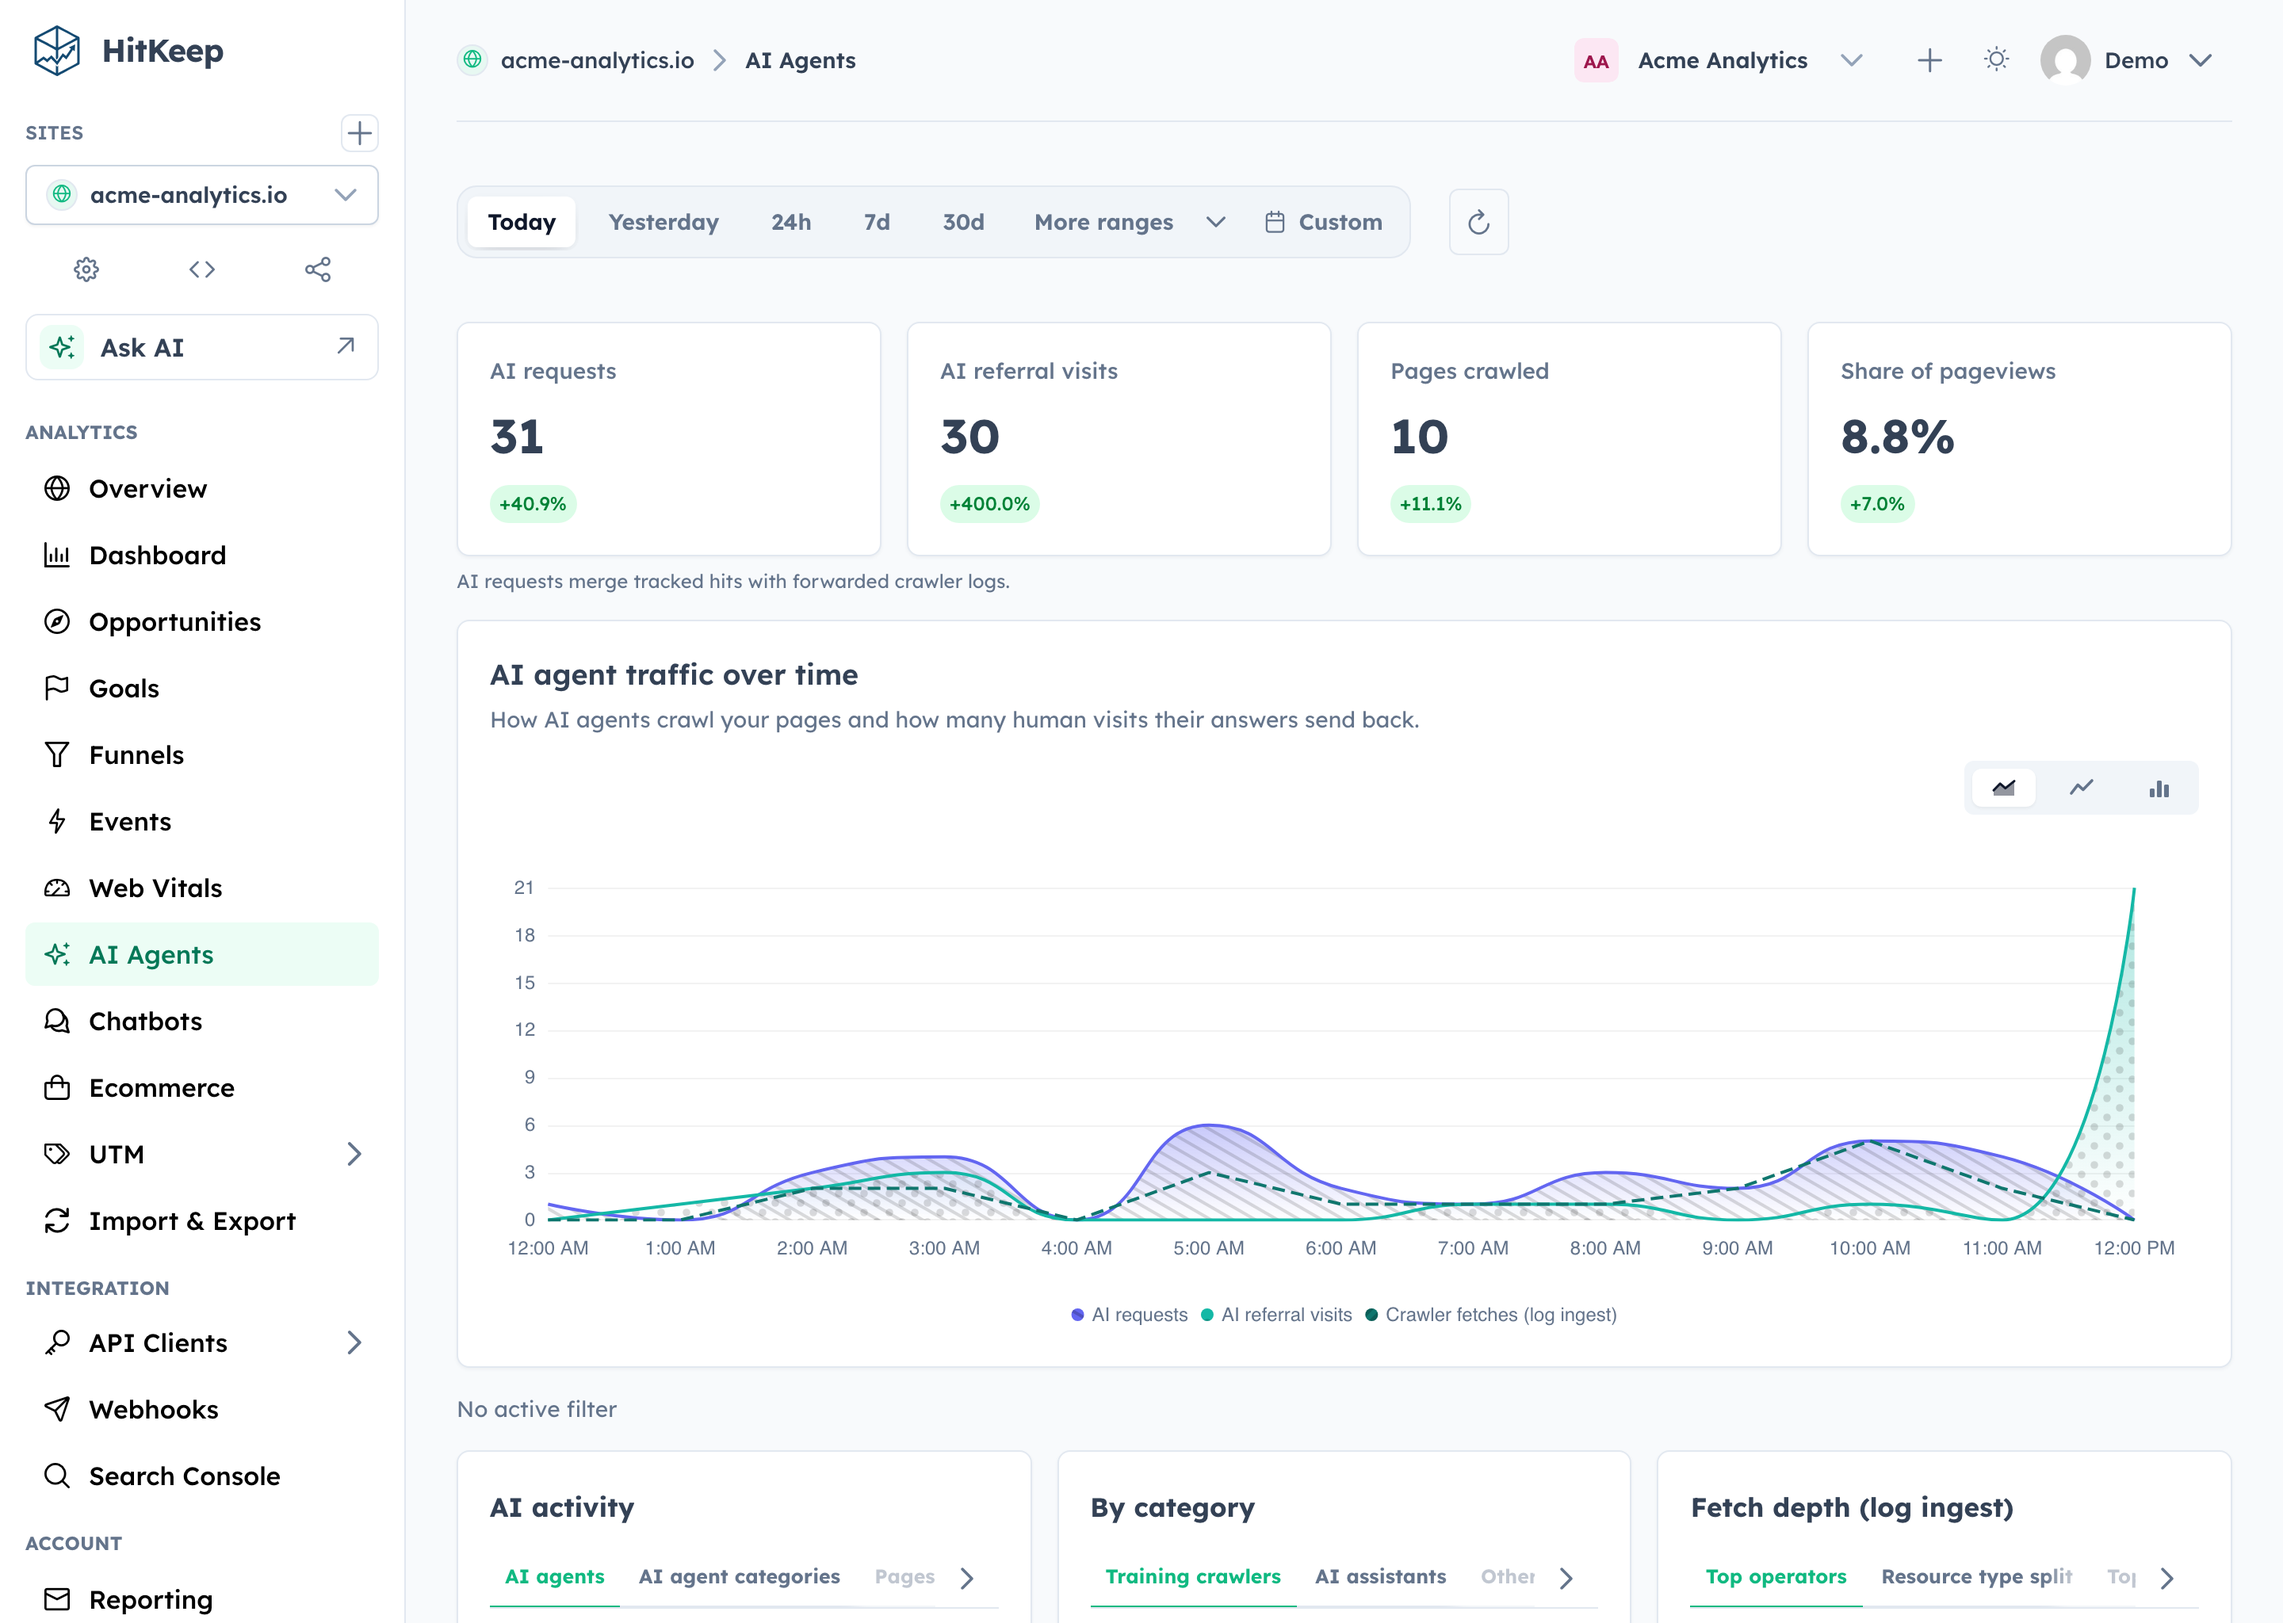
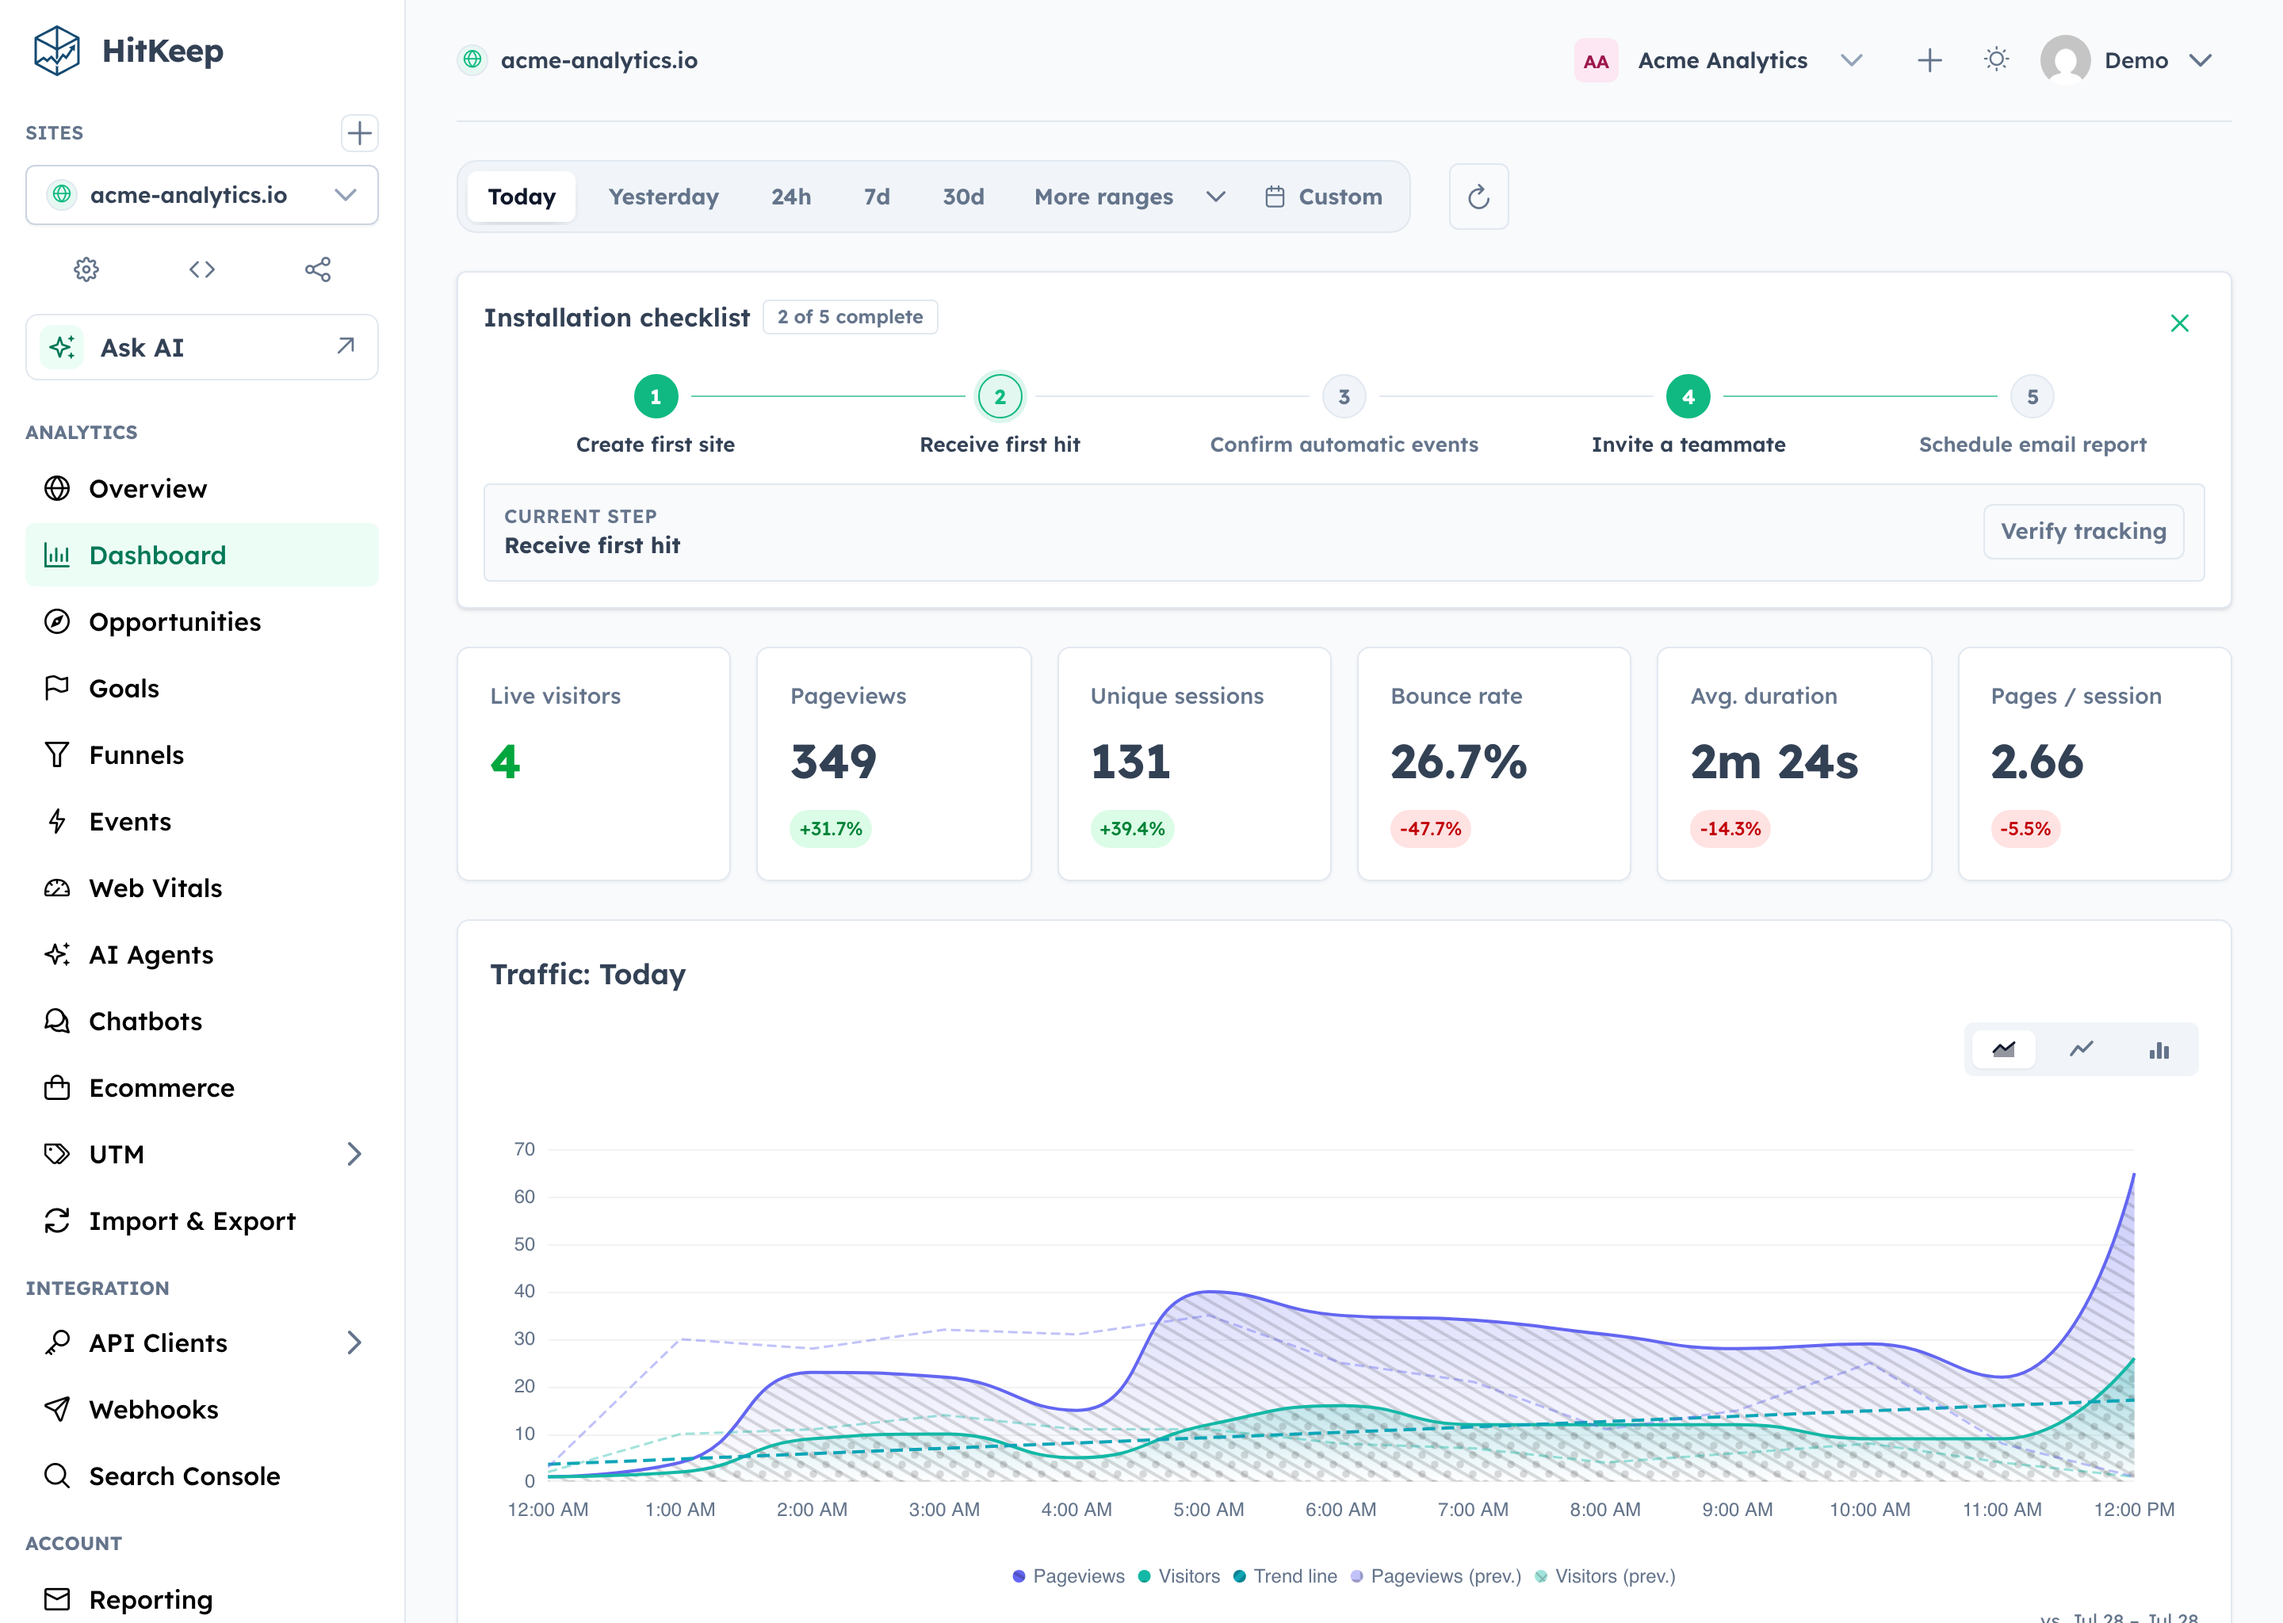
docs(screenshots): restore dashboard overview asset
Keep the main dashboard screenshot under dashboard-overview while using the existing AI Agents view for the AI dashboard showcase.

diff --git a/README.md b/README.md
@@ -116,7 +116,7 @@ More tracking guides:
 <summary>See six product screenshots</summary>
 
 ### AI dashboard
-![HitKeep AI Agents dashboard with AI request, referral, crawl, and pageview analytics](./.github/assets/dashboard-overview.png)
+![HitKeep AI Agents dashboard with AI request, referral, crawl, and pageview analytics](./.github/assets/analytics-ai-agents-traffic.png)
 
 ### Ecommerce
 ![HitKeep ecommerce analytics with revenue KPIs, chart, top products, and revenue sources](./.github/assets/analytics-ecommerce.png)
